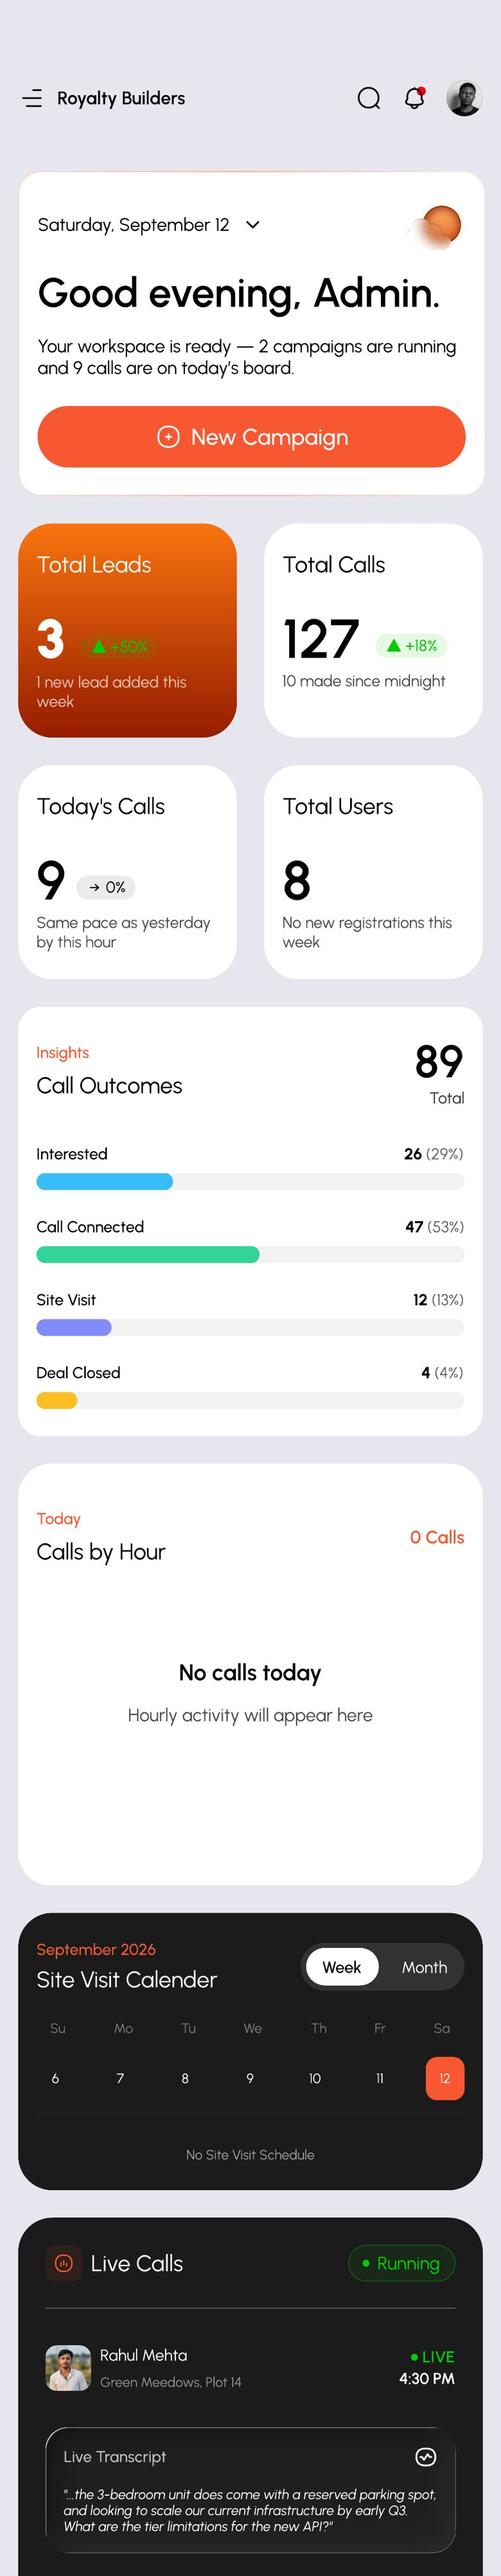
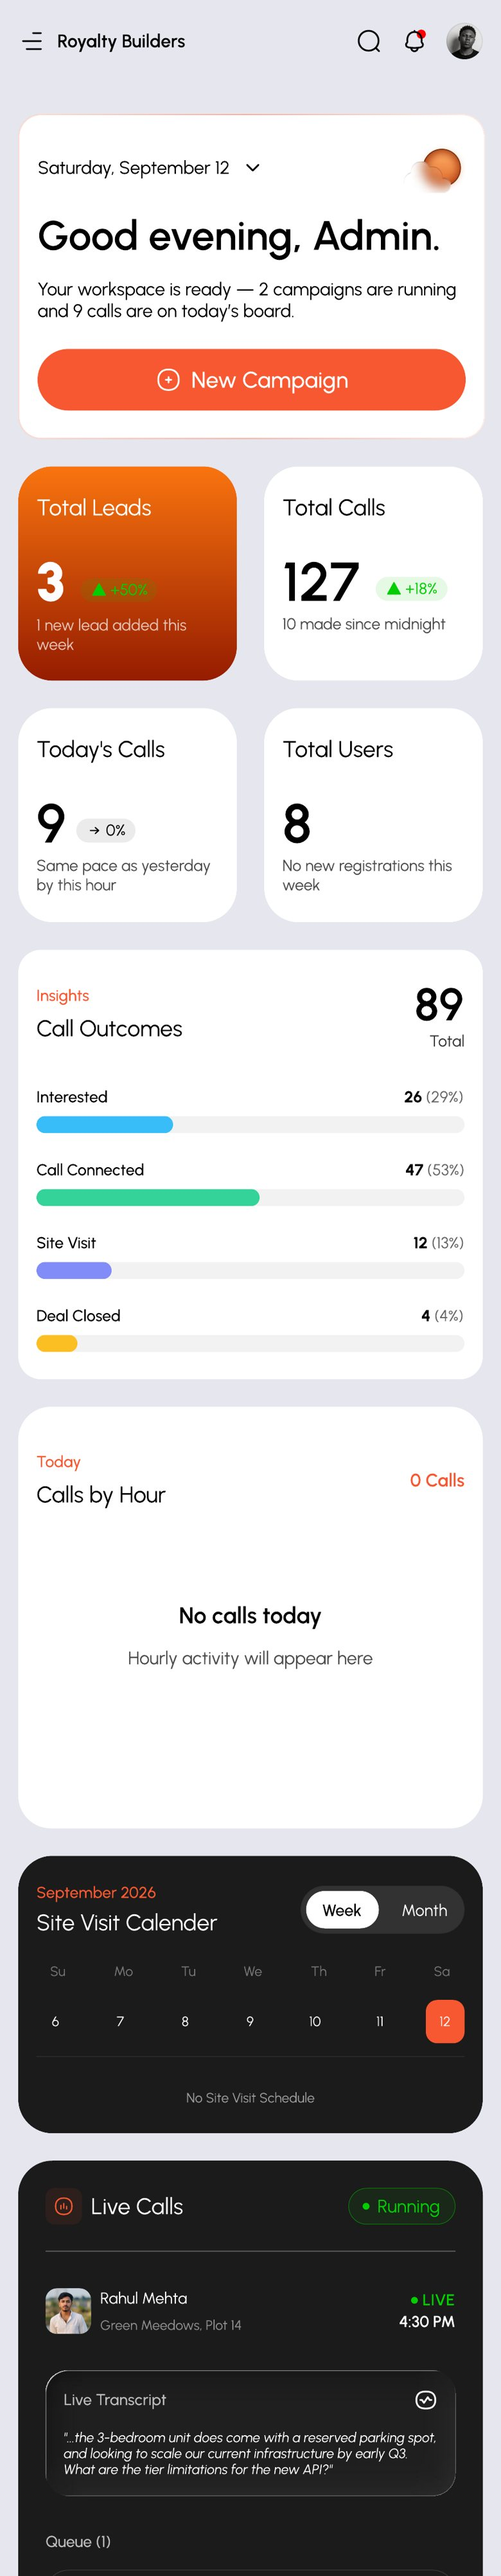
v6: iPhone 17 Pro style deep blue back with camera plateau; dashboard starts right under the status bar
Claude-Session: https://claude.ai/code/session_01RzgqaM5AKWAz2g7SP6U5tQ

Changed region(s): [[0.0308, 0.0, 0.9846, 0.6241], [0.0308, 0.6865, 0.9846, 0.9985], [0.3385, 0.6241, 0.6462, 0.6553]]

diff --git a/v6/index.html b/v6/index.html
@@ -134,11 +134,12 @@ h2{margin:0;font-weight:700;letter-spacing:-.04em;line-height:.98;font-size:clam
 .crop{display:block;width:100%;height:auto;border-radius:16px;box-shadow:0 1px 0 rgba(22,19,26,.04),0 10px 24px -16px rgba(22,19,26,.25)}
 /* device: titanium band, thin black bezel, Dynamic Island, iOS status bar */
 .hphone,.phone{--sbh:11.6%;border-radius:15.5%/7.4%}
-.hphone .pface,.phone .pface{padding:1.3%;background:linear-gradient(118deg,#F4F5F7 0%,#A9ABB1 9%,#E9EAED 17%,#8E9096 30%,#D2D4D8 46%,#9B9DA3 60%,#F1F2F4 74%,#888A90 88%,#CFD1D5 100%);box-shadow:inset 0 0 0 .6px rgba(0,0,0,.35),inset 0 1px 1px rgba(255,255,255,.9),0 50px 80px -40px rgba(40,10,10,.5)}
+.hphone .pface,.phone .pface{padding:1.3%;background:linear-gradient(118deg,#8D9AB8 0%,#3E4A67 9%,#7887A6 17%,#2E3852 30%,#5F6D8C 46%,#323D58 60%,#8593B1 74%,#2B3550 88%,#66739200 100%),#3A4562;box-shadow:inset 0 0 0 .6px rgba(0,0,0,.35),inset 0 1px 1px rgba(255,255,255,.9),0 50px 80px -40px rgba(40,10,10,.5)}
 .hphone .pface>.scr,.phone .pface>.screen{height:100%;border:solid #050506;border-width:3.6% ;border-width:clamp(6px,2.7cqw,9px);border-radius:14.6%/6.9%;box-shadow:inset 0 0 0 1px rgba(255,255,255,.06)}
 .hphone,.phone{container-type:inline-size}
 .scr.real .sbar,.screen.real .sbar{position:relative;height:var(--sbh);display:flex;align-items:center;justify-content:space-between;padding:0 10.5% 0 12%;font-size:clamp(11px,4.6cqw,14px);font-weight:600;letter-spacing:-.01em;color:#0B0B0C;background:inherit}
 .scr.real .sbar{height:7.3%}
+.hphone{--sbh:7.3%}
 .screen.real .sbar{height:auto;aspect-ratio:390/40;margin-bottom:2%}
 .sbar .ic{display:flex;align-items:center;gap:5%;width:27%;justify-content:flex-end}
 .sbar .ic svg{height:clamp(8px,3.6cqw,11px);width:auto;fill:currentColor;flex-shrink:0}
@@ -146,7 +147,7 @@ h2{margin:0;font-weight:700;letter-spacing:-.04em;line-height:.98;font-size:clam
 .scr.real::before,.screen.real::before{content:"";position:absolute;z-index:6;top:1.6%;left:50%;width:32%;height:3.9%;border-radius:999px;background:#000;transform:translateX(-50%);box-shadow:0 0 0 .5px rgba(255,255,255,.04)}
 .scr.real::after,.screen.real::after{content:"";position:absolute;z-index:7;top:2.45%;left:calc(50% + 10.5%);width:2.6%;aspect-ratio:1;border-radius:50%;background:radial-gradient(circle at 40% 40%,#2B3A66,#0A0C14 60%);pointer-events:none}
 .scr.real .vp::after{content:"";position:absolute;inset:0;background:linear-gradient(125deg,rgba(255,255,255,.18) 0%,rgba(255,255,255,0) 28%);pointer-events:none;z-index:2}
-.side{position:absolute;width:1.4%;border-radius:2px;background:linear-gradient(90deg,#7E8086,#D6D8DC 60%,#8E9096)}
+.side{position:absolute;width:1.4%;border-radius:2px;background:linear-gradient(90deg,#2B3550,#7A88A7 60%,#34405C)}
 .side.a{left:-1%;top:15%;height:5%}.side.b{left:-1%;top:23%;height:8.5%}.side.c{left:-1%;top:33.5%;height:8.5%}.side.d{right:-1%;top:27%;height:12%}.side.e{right:-1%;top:52%;height:7%}
 .hphone .scr.real{background:#E6E7EE;color:#0B0B0C;padding:0;display:block}
 /* the phone leans into the headline */
@@ -221,17 +222,19 @@ h2{margin:0;font-weight:700;letter-spacing:-.04em;line-height:.98;font-size:clam
 
 /* phones that turn: front face and a back with the mark */
 .pface{position:absolute;inset:0;border-radius:inherit;-webkit-backface-visibility:hidden;backface-visibility:hidden;box-shadow:0 50px 80px -40px rgba(40,10,10,.5)}
-.rim{position:absolute;inset:0;border-radius:inherit;background:linear-gradient(90deg,#6E6A72,#B9B5BC 30%,#7D7980 60%,#A9A5AD);transform:translateZ(var(--z))}
+.rim{position:absolute;inset:0;border-radius:inherit;background:linear-gradient(90deg,#2C3651,#7180A0 30%,#3A4562 60%,#66749300),#3A4562;transform:translateZ(var(--z))}
 .pback{position:absolute;inset:0;border-radius:inherit;transform:translateZ(-9px) rotateY(180deg);-webkit-backface-visibility:hidden;backface-visibility:hidden;
-  background:radial-gradient(120% 70% at 30% 20%,#4A464E 0%,#2A272D 45%,#1C1A1E 100%);
-  box-shadow:inset 0 0 0 2px #9C98A0,inset 0 0 0 4px #2A272D,inset 0 0 22px rgba(255,255,255,.05),0 50px 80px -40px rgba(40,10,10,.5)}
-.pback::after{content:"";position:absolute;inset:0;border-radius:inherit;background:linear-gradient(115deg,rgba(255,255,255,.10) 0%,rgba(255,255,255,0) 35%,rgba(255,255,255,0) 70%,rgba(255,255,255,.05) 100%);pointer-events:none}
-.pback .cam{position:absolute;top:3.6%;left:7%;width:44%;aspect-ratio:1;border-radius:26%;background:linear-gradient(145deg,rgba(255,255,255,.12),rgba(255,255,255,.04));box-shadow:inset 0 0 0 1px rgba(255,255,255,.14),0 2px 6px rgba(0,0,0,.4)}
-.pback .cam i{position:absolute;width:41%;aspect-ratio:1;border-radius:50%;background:radial-gradient(circle at 50% 50%,#0E1430 0 22%,#05060A 23% 48%,#1A1A1E 49% 62%,#2E2C31 63% 100%);box-shadow:0 0 0 2px #3A383D,0 2px 4px rgba(0,0,0,.6)}
-.pback .cam i::after{content:"";position:absolute;top:28%;left:30%;width:14%;height:14%;border-radius:50%;background:rgba(160,180,255,.55)}
-.pback .cam i:nth-child(1){top:6%;left:6%}.pback .cam i:nth-child(2){bottom:6%;left:6%}.pback .cam i:nth-child(3){top:29.5%;right:6%}
-.pback .cam b{position:absolute;top:12%;right:15%;width:13%;aspect-ratio:1;border-radius:50%;background:radial-gradient(circle,#F3EBD8,#BDB39C)}
-.pback .cam u{position:absolute;bottom:13%;right:16%;width:10%;aspect-ratio:1;border-radius:50%;background:#111;box-shadow:0 0 0 1px #3A383D}
+  background:linear-gradient(165deg,#56637F 0%,#36415D 38%,#2C3650 70%,#3B4763 100%);
+  box-shadow:inset 0 0 0 1.5px rgba(160,175,205,.55),inset 0 0 0 3px #2B3550,0 50px 80px -40px rgba(20,25,45,.55)}
+.pback::after{content:"";position:absolute;inset:0;border-radius:inherit;background:linear-gradient(110deg,rgba(255,255,255,.14) 0%,rgba(255,255,255,0) 30%,rgba(255,255,255,0) 72%,rgba(255,255,255,.06) 100%);pointer-events:none}
+.pback .plat{position:absolute;top:2.4%;left:3.4%;right:3.4%;height:26.5%;border-radius:22% / 40%;background:linear-gradient(170deg,#5C6986 0%,#3F4B67 55%,#36425E 100%);box-shadow:0 3px 6px rgba(10,14,30,.45),inset 0 1px 0 rgba(255,255,255,.22),inset 0 -1px 0 rgba(0,0,0,.25)}
+.pback .glass{position:absolute;top:31.5%;left:3.4%;right:3.4%;bottom:2.4%;border-radius:12% / 8%;background:linear-gradient(170deg,rgba(255,255,255,.07),rgba(255,255,255,.02));box-shadow:inset 0 0 0 1px rgba(255,255,255,.07)}
+.pback .lens{position:absolute;width:25%;aspect-ratio:1;border-radius:50%;background:radial-gradient(circle,#0B1024 0 30%,#03050B 31% 52%,#262C3C 53% 64%,#4D5873 65% 74%,#222A3D 75% 100%);box-shadow:0 2px 5px rgba(0,0,0,.55),inset 0 0 0 1px rgba(255,255,255,.12)}
+.pback .lens::after{content:"";position:absolute;top:31%;left:33%;width:12%;height:12%;border-radius:50%;background:rgba(150,175,255,.55);box-shadow:4px 5px 0 -1px rgba(120,90,255,.25)}
+.pback .l1{top:7%;left:5%}.pback .l2{bottom:7%;left:5%}.pback .l3{top:31%;left:27%}
+.pback .flash{position:absolute;top:13%;right:9%;width:9.5%;aspect-ratio:1;border-radius:50%;background:radial-gradient(circle,#FFF7E3,#D9CDB0 70%,#9C9277);box-shadow:inset 0 0 0 1px rgba(0,0,0,.25)}
+.pback .mic{position:absolute;top:44%;right:12%;width:2.4%;aspect-ratio:1;border-radius:50%;background:#1A2033}
+.pback .lidar{position:absolute;bottom:17%;right:10%;width:8%;aspect-ratio:1;border-radius:50%;background:radial-gradient(circle,#1D2333 0 45%,#0A0D16 46%);box-shadow:inset 0 0 0 1px rgba(255,255,255,.1)}
 
 /* statement: words light up */
 .state{padding-block:clamp(90px,12vw,170px) clamp(40px,6vw,80px)}
@@ -488,7 +491,7 @@ footer .word{transform:translateY(var(--fy,0px))}
     <div class="wrap">
       <h1 aria-label="Meet Leo."><span class="ln"><span class="w">Meet</span></span><span class="ln"><span class="w slot" id="slot" aria-hidden="true"></span><span class="w g">Leo.</span></span></h1>
       <div class="hphone" id="hphone" aria-label="Leo's phone">
-        <i class="side a"></i><i class="side b"></i><i class="side c"></i><i class="side d"></i><i class="side e"></i><div class="rim" style="--z:-1.5px"></div><div class="rim" style="--z:-3px"></div><div class="rim" style="--z:-4.5px"></div><div class="rim" style="--z:-6px"></div><div class="rim" style="--z:-7.5px"></div><div class="pback" aria-hidden="true"><span class="cam"><i></i><i></i><i></i><b></b><u></u></span></div>
+        <i class="side a"></i><i class="side b"></i><i class="side c"></i><i class="side d"></i><i class="side e"></i><div class="rim" style="--z:-1.5px"></div><div class="rim" style="--z:-3px"></div><div class="rim" style="--z:-4.5px"></div><div class="rim" style="--z:-6px"></div><div class="rim" style="--z:-7.5px"></div><div class="pback" aria-hidden="true"><span class="plat"><i class="lens l1"></i><i class="lens l2"></i><i class="lens l3"></i><i class="flash"></i><i class="mic"></i><i class="lidar"></i></span><span class="glass"></span></div>
         <div class="pface"><div class="scr real">
           <div class="sbar"><b>9:41</b><span class="ic"><svg viewBox="0 0 18 12" aria-hidden="true"><rect x="0" y="8" width="3" height="4" rx="1"/><rect x="5" y="5.5" width="3" height="6.5" rx="1"/><rect x="10" y="3" width="3" height="9" rx="1"/><rect x="15" y="0" width="3" height="12" rx="1"/></svg><svg viewBox="0 0 16 12" aria-hidden="true"><path d="M8 11.6 10.4 9a3.4 3.4 0 0 0-4.8 0zM8 4.1a7.6 7.6 0 0 1 5.3 2.1l1.5-1.6A9.8 9.8 0 0 0 8 1.9 9.8 9.8 0 0 0 1.2 4.6l1.5 1.6A7.6 7.6 0 0 1 8 4.1zm0 3.2a4.5 4.5 0 0 1 3.1 1.3l1.5-1.6A6.7 6.7 0 0 0 8 5.2 6.7 6.7 0 0 0 3.4 7l1.5 1.6A4.5 4.5 0 0 1 8 7.3z"/></svg><svg viewBox="0 0 27 13" aria-hidden="true"><rect x=".6" y=".6" width="22.8" height="11.8" rx="3.6" fill="none" stroke="currentColor" stroke-opacity=".38" stroke-width="1.1"/><rect x="2.3" y="2.3" width="17" height="8.4" rx="2.1"/><rect x="24.6" y="4.4" width="1.6" height="4.2" rx=".8" opacity=".42"/></svg></span></div>
           <div class="vp">
@@ -657,7 +660,7 @@ footer .word{transform:translateY(var(--fy,0px))}
       <div class="photo reveal">
         <img src="../v5/media/t5.jpg" alt="A sales manager checking her phone" loading="lazy">
         <div class="phone" id="phone" aria-label="Call summary in Leogix Sales">
-          <i class="side a"></i><i class="side b"></i><i class="side c"></i><i class="side d"></i><i class="side e"></i><div class="rim" style="--z:-1.5px"></div><div class="rim" style="--z:-3px"></div><div class="rim" style="--z:-4.5px"></div><div class="rim" style="--z:-6px"></div><div class="rim" style="--z:-7.5px"></div><div class="pback" aria-hidden="true"><span class="cam"><i></i><i></i><i></i><b></b><u></u></span></div>
+          <i class="side a"></i><i class="side b"></i><i class="side c"></i><i class="side d"></i><i class="side e"></i><div class="rim" style="--z:-1.5px"></div><div class="rim" style="--z:-3px"></div><div class="rim" style="--z:-4.5px"></div><div class="rim" style="--z:-6px"></div><div class="rim" style="--z:-7.5px"></div><div class="pback" aria-hidden="true"><span class="plat"><i class="lens l1"></i><i class="lens l2"></i><i class="lens l3"></i><i class="flash"></i><i class="mic"></i><i class="lidar"></i></span><span class="glass"></span></div>
           <div class="pface"><div class="screen real"><div class="sbar"><b>9:41</b><span class="ic"><svg viewBox="0 0 18 12" aria-hidden="true"><rect x="0" y="8" width="3" height="4" rx="1"/><rect x="5" y="5.5" width="3" height="6.5" rx="1"/><rect x="10" y="3" width="3" height="9" rx="1"/><rect x="15" y="0" width="3" height="12" rx="1"/></svg><svg viewBox="0 0 16 12" aria-hidden="true"><path d="M8 11.6 10.4 9a3.4 3.4 0 0 0-4.8 0zM8 4.1a7.6 7.6 0 0 1 5.3 2.1l1.5-1.6A9.8 9.8 0 0 0 8 1.9 9.8 9.8 0 0 0 1.2 4.6l1.5 1.6A7.6 7.6 0 0 1 8 4.1zm0 3.2a4.5 4.5 0 0 1 3.1 1.3l1.5-1.6A6.7 6.7 0 0 0 8 5.2 6.7 6.7 0 0 0 3.4 7l1.5 1.6A4.5 4.5 0 0 1 8 7.3z"/></svg><svg viewBox="0 0 27 13" aria-hidden="true"><rect x=".6" y=".6" width="22.8" height="11.8" rx="3.6" fill="none" stroke="currentColor" stroke-opacity=".38" stroke-width="1.1"/><rect x="2.3" y="2.3" width="17" height="8.4" rx="2.1"/><rect x="24.6" y="4.4" width="1.6" height="4.2" rx=".8" opacity=".42"/></svg></span></div><img src="media/screen-summary.jpg" alt="Leogix Sales: AI summary of Leo's call with Rahul Sharma" loading="lazy"></div>
         </div></div>
       </div>
